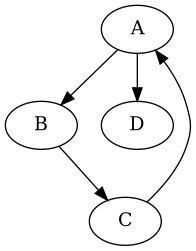
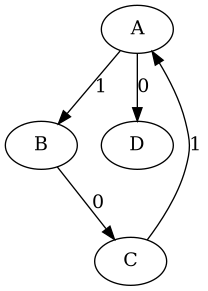
Added more function utilities

Changed region(s): [[0.0, 0.0, 0.9796, 1.0], [0.6122, 0.0558, 0.7347, 0.1394], [0.0306, 0.4462, 0.0612, 0.4741]]

diff --git a/header.c b/header.c
@@ -1,6 +1,6 @@
 #include <stdio.h>
 #include <stdlib.h>
-
+#define A[20][20]
 void readDot(void)
 	{
 	FILE* f;
@@ -9,5 +9,6 @@ void readDot(void)
 		{
 			printf("File not opened, please check if your graph.dot file exists in this 					directory");
 		}
+	fscanf(file, "
+	while( fscanf(f," %c -> %c [label=\"%d\"]",&src,&dest,&val)
 	}
-
